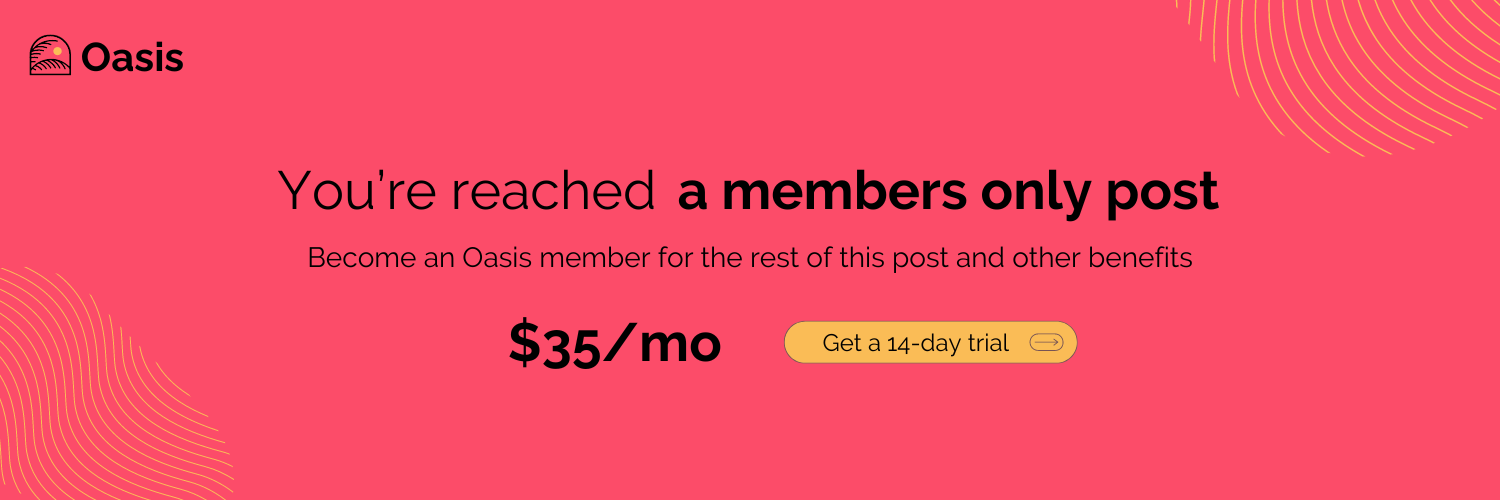
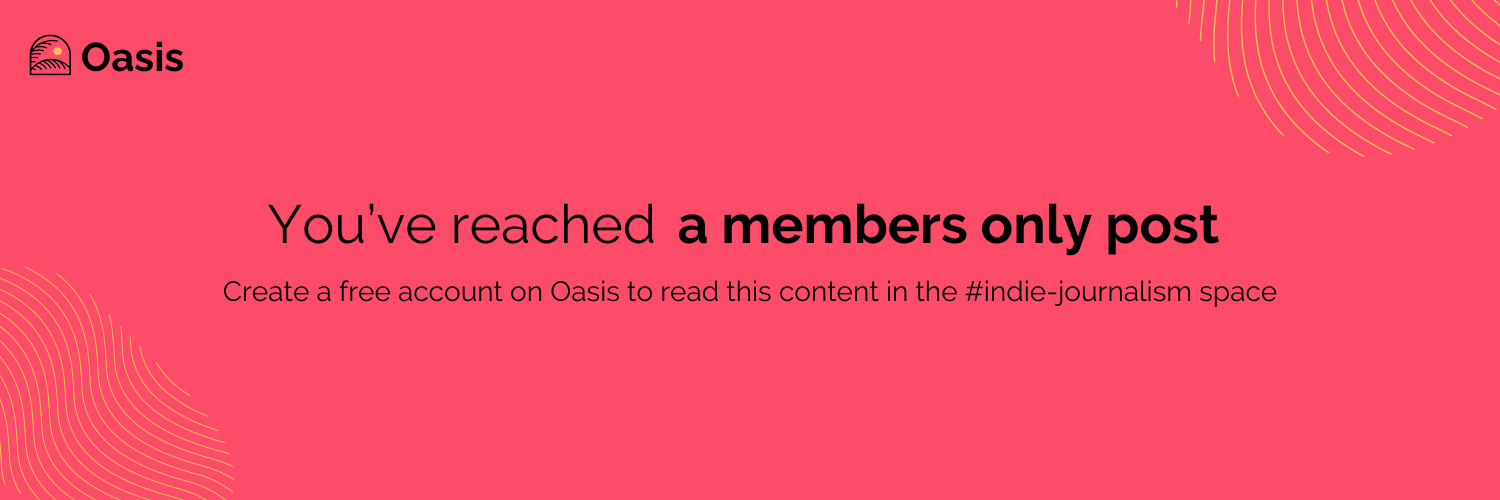
push

diff --git a/src/navigation.js b/src/navigation.js
@@ -45,7 +45,7 @@ export const headerData = {
   ],
 },
   ],
-  actions: [{ text: 'Get a 14-day trial', href: 'https://joinoasis.mn.co/plans/371036?bundle_token=c1bb0657c371a9743749fe9945fd3349&utm_source=manual', target: '_blank' }],
+  actions: [{ text: 'Create a free account', href: 'https://joinoasis.mn.co/share/uy9GF2G6bUT1mPd8?utm_source=manual', target: '_blank' }],
 };
 
 export const footerData = {

diff --git a/src/content/post/true-americans-support-gazan-freedom.md b/src/content/post/true-americans-support-gazan-freedom.md
@@ -18,4 +18,4 @@ So what does freedom mean? What does it mean to fight for your freedom when you'
 
 We idealize the scenario where we have to fight for our freedoms, but there are teenage girls in the West Bank with more traits in common with our founding fathers than the average conservative 30yo who whinges about freedom. In fact, a good example of this is BBC's coverage of [Ahed Tamimi's slap of an IOF soldier in 2018](https://www.bbc.com/news/av/world-middle-east-42884885). The simple fact that anyone is asking whether her action made her terrorist or not shows how mentally fucking warped the West has become... 
 
-[![](~/assets/images/membersonly.png)](https://joinoasis.mn.co/plans/372205?bundle_token=d59e43884a647b8227f91e0b1d9dc2ce&utm_source=manual)
+[![](~/assets/images/membersonly.png)](https://joinoasis.mn.co/share/uy9GF2G6bUT1mPd8?utm_source=manual)
